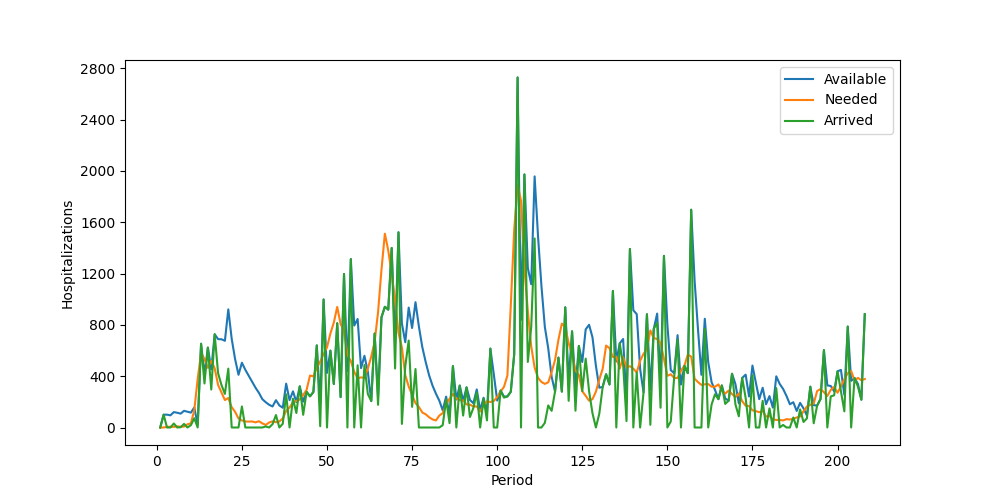
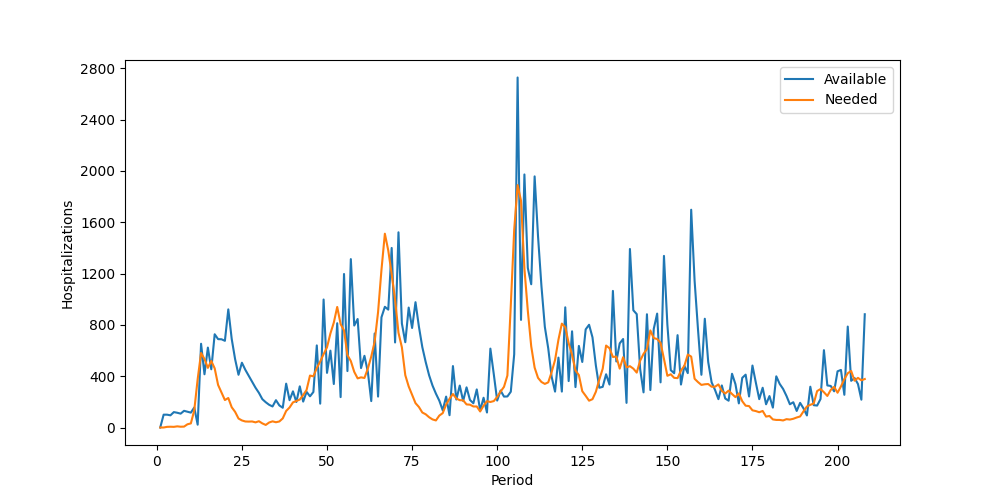
rendered better images

Changed region(s): [[0.155, 0.24, 0.868, 0.87], [0.775, 0.21, 0.899, 0.27]]

diff --git a/llm_tests.py b/llm_tests.py
@@ -3,4 +3,4 @@ from evaluate import evaluate
 
 if __name__ == '__main__':
     auto("Data/COVID Ontario.csv", 1, 8, 0, 0, 100, 0, 5, 5, {"p": 2, "d": 2, "q": 1}, {"C": 0.1, "gamma": "auto", "epsilon": 0.5}, True, output="FINAL", model=[None, "Meta-Llama-3.1-405B"], delay=30)
-    evaluate("Results/FINAL", ["Available", "Needed", "Arrived"], True, 10, 5, False)
+    evaluate("Results/FINAL", ["Available", "Needed"], True, 10, 5, False)

diff --git a/initial_tests.py b/initial_tests.py
@@ -17,4 +17,4 @@ if __name__ == '__main__':
         for gamma in ["auto", "scale"]:
             for epsilon in [0.01, 0.1, 0.5]:
                 auto("Data/COVID Ontario.csv", 1, 8, 0, 0, 100, 0, 0, 5, None, {"C": c, "gamma": gamma, "epsilon": epsilon}, False, output="SVR")
-    evaluate("Results/SVR", ["Available", "Needed", "Arrived"], True, 10, 5, False)
+    evaluate("Results/SVR", ["Available", "Needed"], True, 10, 5, False)
